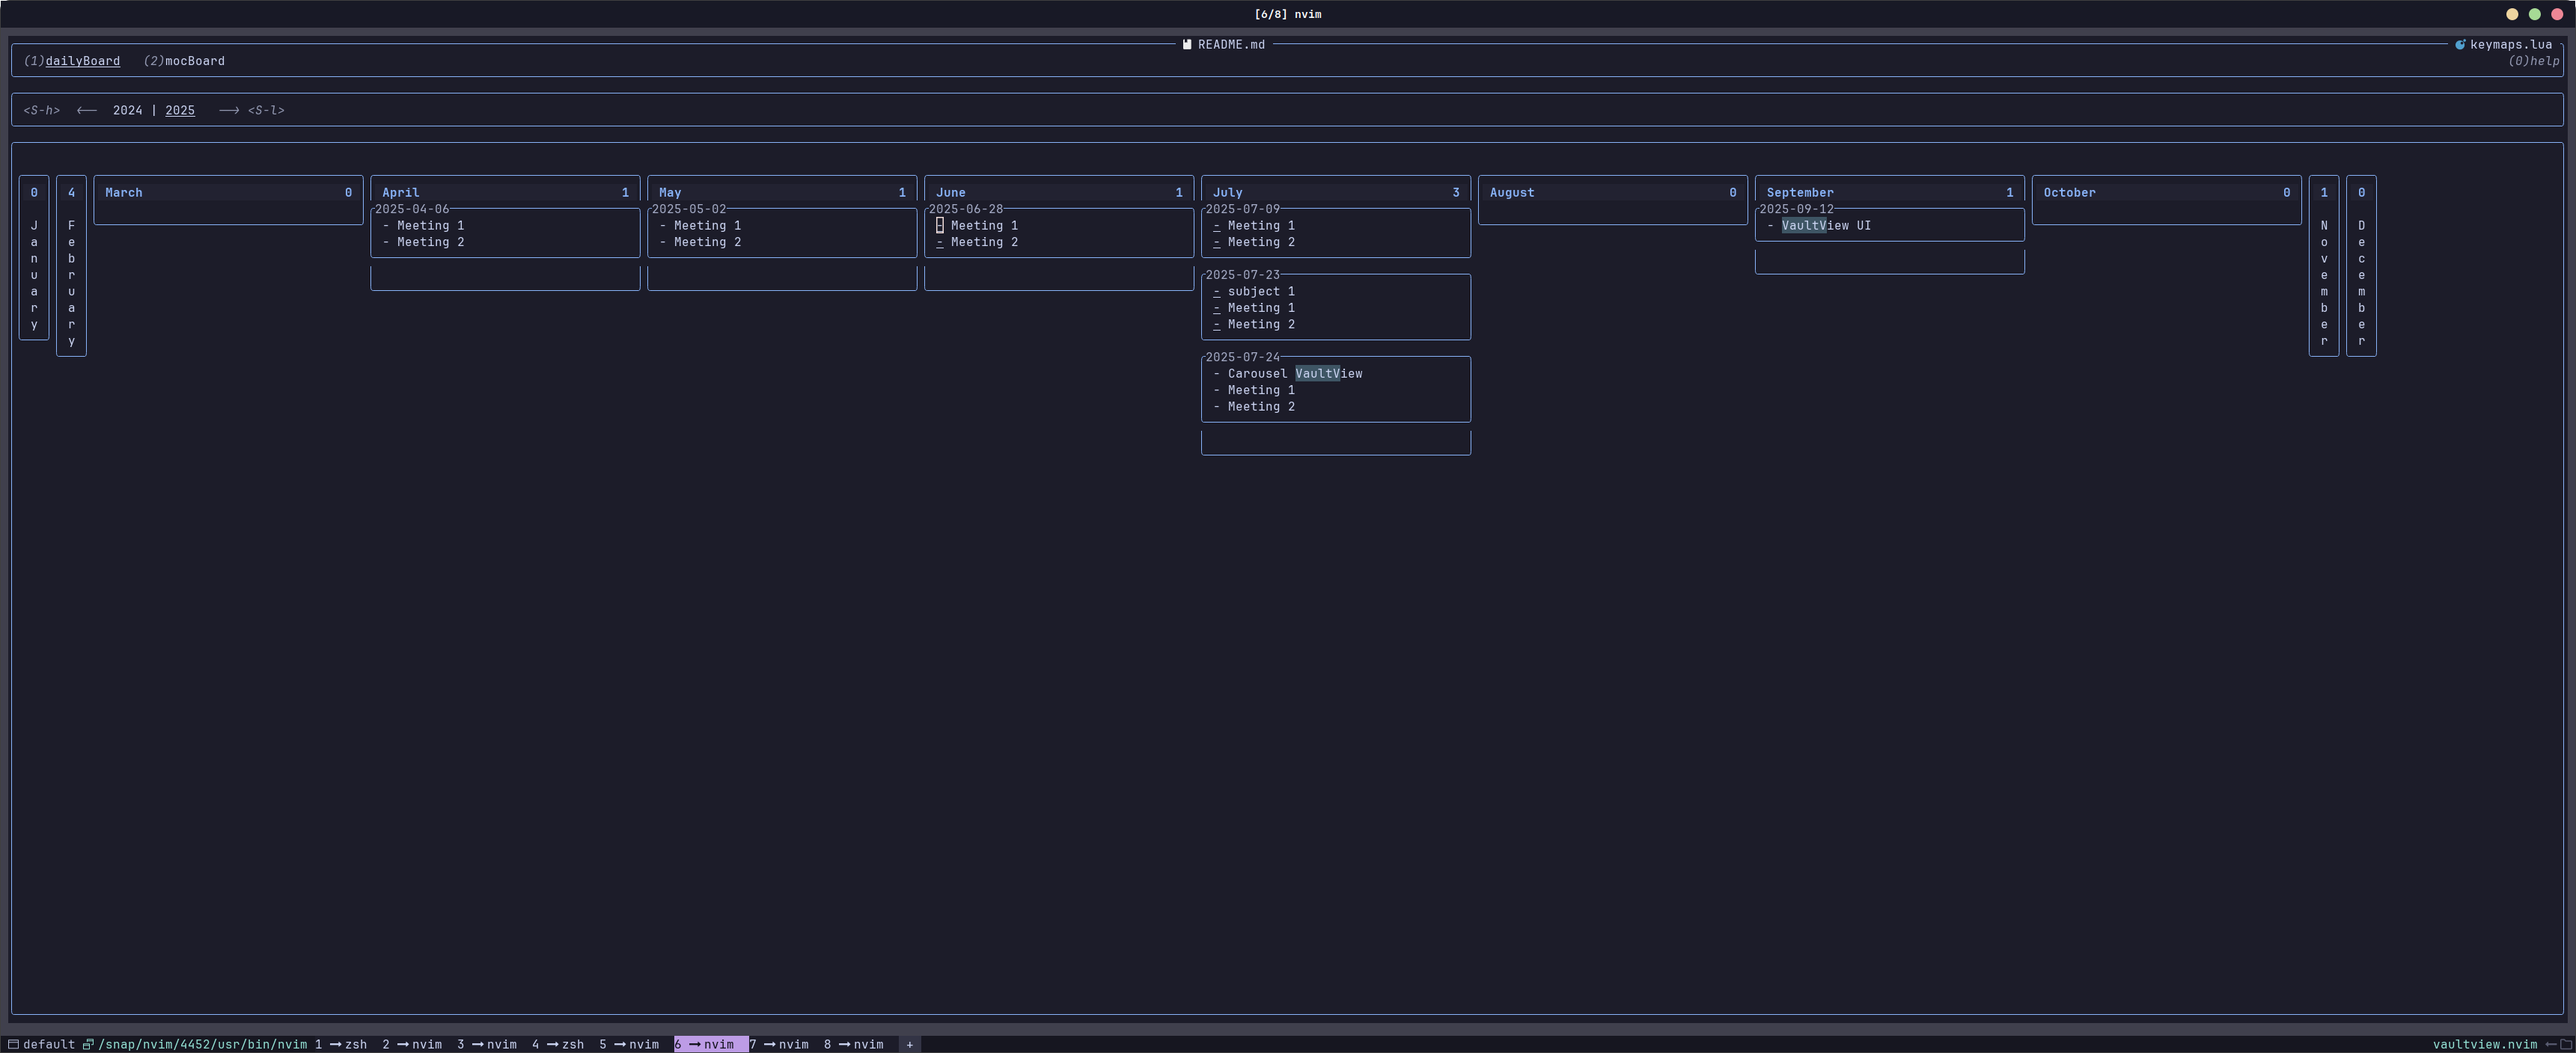
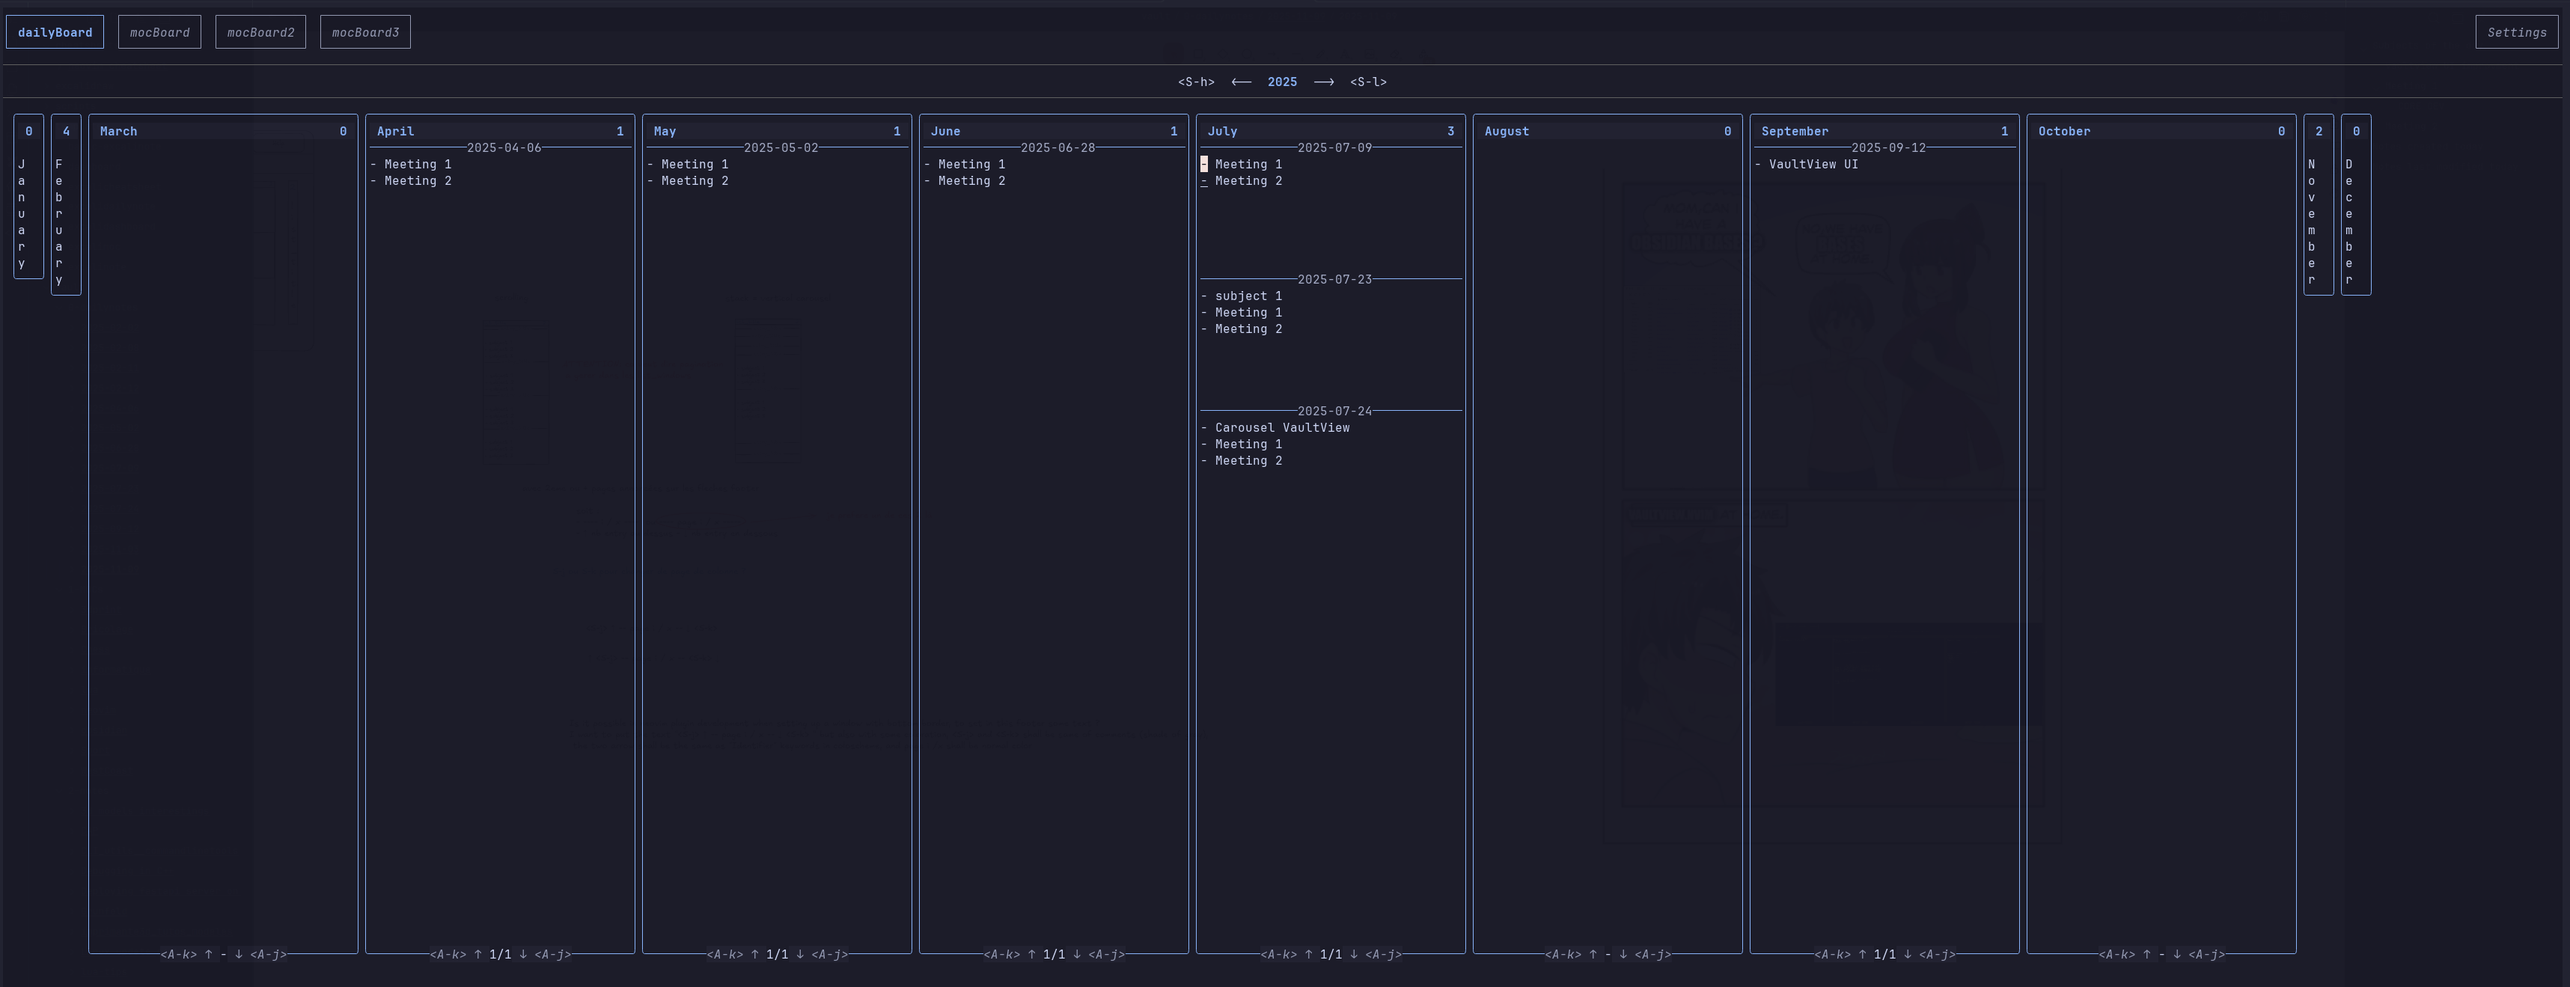
Updated readme with new UI screenshots + "MVC" pattern

diff --git a/README.md b/README.md
@@ -50,9 +50,11 @@ __Quick edit of a file from the board:__
 
 ## ⚙ How it works
 
-A board in VaultView consists of two main parts:
+The plugin is architectured around the concept of MVC (Model-View-Controller) pattern.
 
-1. Board Data
+A board in VaultView consists of three main parts:
+
+1. Board Data (The Model)
 
 The data is generated by a parser, which:
 - Takes all (or a subset) of your vault’s files => "Input Selection"
@@ -70,7 +72,11 @@ __Currently Supported Parsers:__
 - Daily Note Parser -> Retrieves all daily notes in your vault, sorts them by year/month, and extracts headings for each day.
 - MOC Parser -> Finds all your MOC files and, for each one, lists all files linking to it — along with their headings (to display a TOC inside each card).
 
-2. View Layout
+2. View (The Controller)
+The View holds data and states related to one board.
+It delegates the rendering of the data to a specific layout.
+
+3. View Layout (The View)
 
 The layout determines how the parsed data is displayed.
 
@@ -129,18 +135,19 @@ return {
 		vim.g.vaultview_configuration = {
 			vault = {
 				path = "/path/to/your/vault", -- full path to your vault
-				name = "myVault",
+				name = "myVault", -- name of the Vault as seen by Obsidian. Used to build uri path for Obsidian
 			},
             user_commands = {
-                input_selectors = { -- custom input selectors can be defined here and chosen in the board configuration
-                    list_files = { -- Hardcoded list of files
+                input_selectors = { -- list of custom input selectors. They keys can be used in board definitions
+                    list_files = { -- a comma-separated list of file paths
                         "/path/to/file1.md",
                         "/path/to/file2.md",
                         "/path/to/file3.md",
                     },
-                    lua_function = function(path)
-                        -- Custom Lua function that returns a list of files
-                        end,
+                    lua_function =function(search_path) -- a function that returns a list of file paths from a given search_path
+                        return {
+                        }
+                    end,
                     shell_command = [=[ your_shell_command ]=], -- Custom shell command to list files
                 },
                 entry_content_selectors = { -- custom content selectors can be defined here and chosen in the board configuration
@@ -149,19 +156,18 @@ return {
 			boards = {
 				{
 					name = "dailyBoard", -- name of the board as printed in the top of UI
-					viewlayout = "carousel", -- how information is displayed in the view -> currently supported layouts: "carousel", "columns"
-                    subfolder = "vault/0-dailynotes", -- optional subfolder inside vault to limit the scope of the input files
-                    input_selector = "yyyy-mm-dd_md",-- Input Selection = get the files to be used as board inputs by the parser to build the board data
-                    content_selector = "lvl2headings_noexcalidraw_awk", -- Content selection = get the content(lines) to display in the card associated to each entry (within lists)
                     parser = "daily", -- parser used to retrieve information to display in the view -> currently supported parsers: "daily", "moc"
-					-- show_empty_lists = false, -- TODO: not implemented yet
+					viewlayout = "carousel", -- how information is displayed in the view -> currently supported layouts: "carousel", "columns"
+                    input_selector = "yyyy-mm-dd_md",-- rule to select files to be included in the board. Can be a built-in selector or a user-defined one
+                    subfolder = "vault/0-dailynotes", -- optional subfolder inside vault to limit the scope of the input files
+                    content_selector = "lvl2headings_noexcalidraw_awk", -- rule to select content inside each file to be displayed in the view. Can be a built-in selector or a user-defined one
 				},
 				{
 					name = "mocBoard",
 					parser = "moc",
 					viewlayout = "columns",
-                    subfolder = "vault/1-MOCs",
                     input_selector = "all_md",
+                    subfolder = "vault/1-MOCs",
                     content_selector = "lvl2headings_noexcalidraw_awk",
 				},
 			},
@@ -187,9 +193,6 @@ local content_selectors = {
     all_headings = [=[grep -E '^#+[[:space:]]+.+' %q | sed -E 's/^#+[[:space:]]+//' ]=],
     lvl2headings_noexcalidraw_awk = [=[awk '/^# Excalidraw Data/ { exit } /^##[[:space:]]+.+/ { sub(/^##[[:space:]]+/, ""); print }' %q]=],
     lvl2headings_noexcalidraw_rg = [=[rg --until-pattern '^# Excalidraw Data' '^##[[:space:]]+.+$' %q | sed -E 's/^##[[:space:]]+//' ]=],
-    uncompleted_tasks = [=[grep -E '^\s*-\s*\[ \]' %q | sed -E 's/^\s*-\s*\[ \]\s*//' ]=], -- TODO test
-    completed_tasks = [=[grep -E '^\s*-\s*\[x\]' %q | sed -E 's/^\s*-\s*\[x\]\s*//' ]=], -- TODO test
-    tasks = [=[grep -E '^\s*-\s*\[[ x]\]' %q | sed -E 's/^\s*-\s*\[[ x]\]\s*//' ]=], -- TODO test
 }
 ```
 
